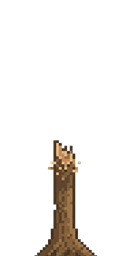
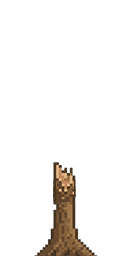
TEXTURAS

Changed region(s): [[0.375, 0.5312, 0.625, 0.8125]]

diff --git a/public/render.js b/public/render.js
@@ -146,109 +146,90 @@ window.draw = function() {
         window.ctx.globalAlpha = 1;
     }
 
+    // --- NUEVO SISTEMA DE SOL CON SPRITES ---
     if (hourFloat > 5 && hourFloat < 19) {
         let dayProgress = (hourFloat - 5) / 14;
         let sunX = W * dayProgress;
         let sunY = H * 0.8 - Math.sin(dayProgress * Math.PI) * (H * 0.7);
-        if (!window.game.isRaining) {
-            let haloGrad = window.ctx.createRadialGradient(sunX, sunY, 30, sunX, sunY, 120);
-            haloGrad.addColorStop(0, 'rgba(255,220,80,0.25)');
-            haloGrad.addColorStop(1, 'rgba(255,150,30,0)');
-            window.ctx.fillStyle = haloGrad;
-            window.ctx.beginPath(); window.ctx.arc(sunX, sunY, 120, 0, Math.PI*2); window.ctx.fill();
+        
+        let sunSize = 140; // Puedes ajustar el tamaño en píxeles
+        if (window.sprites.sprite_sun.complete && window.sprites.sprite_sun.naturalWidth > 0) {
+            window.ctx.drawImage(window.sprites.sprite_sun, sunX - sunSize/2, sunY - sunSize/2, sunSize, sunSize);
+        } else {
+            // Fallback por si la imagen tarda en cargar
+            window.ctx.fillStyle = '#FFE566';
+            window.ctx.beginPath(); window.ctx.arc(sunX, sunY, 42, 0, Math.PI*2); window.ctx.fill();
         }
-        window.ctx.fillStyle = '#FFE566';
-        window.ctx.shadowColor = '#FF9500'; window.ctx.shadowBlur = window.game.isRaining ? 8 : 45;
-        window.ctx.beginPath(); window.ctx.arc(sunX, sunY, 42, 0, Math.PI*2); window.ctx.fill();
-        window.ctx.fillStyle = '#FFF5A0';
-        window.ctx.shadowBlur = 0;
-        window.ctx.beginPath(); window.ctx.arc(sunX - 6, sunY - 8, 28, 0, Math.PI*2); window.ctx.fill();
-        window.ctx.shadowBlur = 0;
     }
 
+    // --- NUEVO SISTEMA DE LUNA CON SPRITES ---
     if (hourFloat >= 17 || hourFloat <= 7) {
         let nightProgress = hourFloat >= 17 ? (hourFloat - 17) / 14 : (hourFloat + 7) / 14;
         let moonX = W * nightProgress;
         let moonY = H * 0.8 - Math.sin(nightProgress * Math.PI) * (H * 0.7);
-        window.ctx.fillStyle = '#E8EEE0';
-        window.ctx.shadowColor = '#CCDDFF'; window.ctx.shadowBlur = window.game.isRaining ? 4 : 30;
-        window.ctx.beginPath(); window.ctx.arc(moonX, moonY, 32, 0, Math.PI*2); window.ctx.fill();
-        window.ctx.shadowBlur = 0;
-        window.ctx.fillStyle = 'rgba(0,0,0,0.08)';
-        [[- 8, 6, 7], [11, -7, 5], [2, 11, 5], [-4, -10, 4]].forEach(([ox, oy, or]) => {
-            window.ctx.beginPath(); window.ctx.arc(moonX + ox, moonY + oy, or, 0, Math.PI*2); window.ctx.fill();
-        });
-        window.ctx.shadowBlur = 0;
+        
+        let moonSize = 120; // Puedes ajustar el tamaño en píxeles
+        if (window.sprites.sprite_moon.complete && window.sprites.sprite_moon.naturalWidth > 0) {
+            window.ctx.drawImage(window.sprites.sprite_moon, moonX - moonSize/2, moonY - moonSize/2, moonSize, moonSize);
+        } else {
+            // Fallback por si la imagen tarda en cargar
+            window.ctx.fillStyle = '#E8EEE0';
+            window.ctx.beginPath(); window.ctx.arc(moonX, moonY, 32, 0, Math.PI*2); window.ctx.fill();
+        }
     }
 
+    // --- NUEVO SISTEMA DE NUBES CON SPRITES ---
     window.clouds.forEach(c => {
         c.x += c.v; if (c.x > W + 150) c.x = -150;
         let cloudAlpha = window.game.isRaining ? 0.75 : Math.max(0, 0.7 * (1 - darkness * 1.2));
         if (cloudAlpha <= 0) return;
+        
         window.ctx.save();
         window.ctx.globalAlpha = cloudAlpha;
-        window.ctx.fillStyle = window.game.isRaining ? 'rgba(70,80,100,0.6)' : 'rgba(200,215,240,0.4)';
-        window.ctx.beginPath();
-        window.ctx.arc(c.x + 2, c.y + 6, 28*c.s, 0, Math.PI*2);
-        window.ctx.arc(c.x + 27*c.s + 2, c.y - 13*c.s + 6, 33*c.s, 0, Math.PI*2);
-        window.ctx.arc(c.x + 52*c.s + 2, c.y + 6, 23*c.s, 0, Math.PI*2);
-        window.ctx.fill();
-        window.ctx.fillStyle = window.game.isRaining ? 'rgba(110,120,140,0.85)' : 'rgba(255,255,255,0.88)';
-        window.ctx.beginPath();
-        window.ctx.arc(c.x, c.y, 28*c.s, 0, Math.PI*2);
-        window.ctx.arc(c.x + 25*c.s, c.y - 14*c.s, 33*c.s, 0, Math.PI*2);
-        window.ctx.arc(c.x + 50*c.s, c.y, 23*c.s, 0, Math.PI*2);
-        window.ctx.fill();
-        if (!window.game.isRaining) {
-            window.ctx.fillStyle = 'rgba(255,255,255,0.5)';
-            window.ctx.beginPath();
-            window.ctx.arc(c.x + 22*c.s, c.y - 18*c.s, 18*c.s, 0, Math.PI*2);
-            window.ctx.fill();
+        
+        // Si llueve, oscurecemos la textura de la nube nativamente
+        if (window.game.isRaining) {
+            window.ctx.filter = 'brightness(45%)';
+        }
+
+        if (window.sprites.sprite_cloud.complete && window.sprites.sprite_cloud.naturalWidth > 0) {
+            // Escalamos la textura usando c.s (el factor de tamaño aleatorio que ya tenías)
+            let cW = 200 * c.s; 
+            let cH = 100 * c.s;
+            window.ctx.drawImage(window.sprites.sprite_cloud, c.x, c.y - cH/2, cW, cH);
+        } else {
+            // Fallback si no hay sprite
+            window.ctx.fillStyle = 'rgba(255,255,255,0.8)';
+            window.ctx.beginPath(); window.ctx.arc(c.x, c.y, 28*c.s, 0, Math.PI*2); window.ctx.fill();
         }
         window.ctx.restore();
     });
 
-    let mCol1 = `rgb(${Math.max(5,r-50)},${Math.max(5,g-50)},${Math.max(15,b-30)})`;
-    let mCol2 = `rgb(${Math.max(5,r-35)},${Math.max(5,g-35)},${Math.max(15,b-18)})`;
-    window.ctx.fillStyle = mCol1;
-    window.ctx.beginPath();
-    let mX = -(window.camera.x * 0.05) % 900;
-    for (let i = -1; i < 5; i++) {
-        let bx = mX + i * 900;
-        window.ctx.moveTo(bx, window.game.groundLevel);
-        window.ctx.lineTo(bx + 120, window.game.groundLevel - 260);
-        window.ctx.lineTo(bx + 280, window.game.groundLevel - 210);
-        window.ctx.lineTo(bx + 420, window.game.groundLevel - 320);
-        window.ctx.lineTo(bx + 600, window.game.groundLevel - 180);
-        window.ctx.lineTo(bx + 750, window.game.groundLevel - 240);
-        window.ctx.lineTo(bx + 900, window.game.groundLevel);
-    }
-    window.ctx.fill();
-    if (darkness < 0.7) {
-        window.ctx.fillStyle = `rgba(255,255,255,${0.25 * (1-darkness)})`;
-        window.ctx.beginPath();
-        for (let i = -1; i < 5; i++) {
-            let bx = mX + i * 900;
-            [[120,260,50],[420,320,60],[750,240,45]].forEach(([px, py, pw]) => {
-                window.ctx.moveTo(bx+px, window.game.groundLevel - py);
-                window.ctx.lineTo(bx+px-pw*0.5, window.game.groundLevel - py + pw*0.7);
-                window.ctx.lineTo(bx+px+pw*0.5, window.game.groundLevel - py + pw*0.7);
-            });
+    // --- FONDOS DE MONTAÑAS CON SPRITES (PARALLAX) ---
+    let bgW = 1280; 
+    let bgBackH = 500; // Alto visual de la capa más lejana
+    let bgMidH = 350;  // Alto visual de la capa intermedia
+
+    let backX = -(window.camera.x * 0.05) % bgW;
+    if (backX > 0) backX -= bgW;
+
+    let midX = -(window.camera.x * 0.15) % bgW;
+    if (midX > 0) midX -= bgW;
+
+    // Capa Lejana
+    if (window.sprites.bg_mountains_back.complete && window.sprites.bg_mountains_back.naturalWidth > 0) {
+        for (let i = -1; i <= Math.ceil(W / bgW) + 1; i++) {
+            window.ctx.drawImage(window.sprites.bg_mountains_back, backX + (i * bgW), window.game.groundLevel - bgBackH + 80, bgW, bgBackH);
         }
-        window.ctx.fill();
     }
 
-    window.ctx.fillStyle = mCol2;
-    window.ctx.beginPath();
-    let hX = -(window.camera.x * 0.2) % 1000;
-    for (let i = -1; i < 4; i++) {
-        let bx = hX + i * 1000;
-        window.ctx.moveTo(bx, window.game.groundLevel);
-        window.ctx.bezierCurveTo(bx + 100, window.game.groundLevel - 80, bx + 200, window.game.groundLevel - 130, bx + 350, window.game.groundLevel - 100);
-        window.ctx.bezierCurveTo(bx + 500, window.game.groundLevel - 70, bx + 650, window.game.groundLevel - 160, bx + 800, window.game.groundLevel - 90);
-        window.ctx.bezierCurveTo(bx + 900, window.game.groundLevel - 50, bx + 950, window.game.groundLevel - 30, bx + 1000, window.game.groundLevel);
+    // Capa Intermedia
+    if (window.sprites.bg_mountains_mid.complete && window.sprites.bg_mountains_mid.naturalWidth > 0) {
+        for (let i = -1; i <= Math.ceil(W / bgW) + 1; i++) {
+            window.ctx.drawImage(window.sprites.bg_mountains_mid, midX + (i * bgW), window.game.groundLevel - bgMidH + 30, bgW, bgMidH);
+        }
     }
-    window.ctx.fill();
+    // -------------------------------------------------
 
     window.ctx.translate(-window.camera.x, -window.camera.y);
 
@@ -256,41 +237,36 @@ window.draw = function() {
     const startX = Math.max(window.camera.x, window.game.shoreX);
     const endX = window.camera.x + W + 100;
 
-    // --- NUEVO SISTEMA DE TILING PARA BIOMAS ---
+    // --- SISTEMA DE TILING PARA BIOMAS ---
     const tileSize = 64;
     let startTileX = startX - (startX % tileSize);
     let startTileY = gL;
 
     for (let px = startTileX; px < endX; px += tileSize) {
-        // Cálculo de transparencia para la transición Bosque -> Desierto
         let desertAlpha = 0;
         if (px > 3400) desertAlpha = 1;
-        else if (px > 2600) desertAlpha = (px - 2600) / 800; // Transición de 800px
+        else if (px > 2600) desertAlpha = (px - 2600) / 800; 
 
         for (let py = startTileY; py < H; py += tileSize) {
             let isTop = (py === startTileY);
             
-            // Dibujar capa Bosque (Pasto/Tierra)
             if (desertAlpha < 1) {
                 window.ctx.globalAlpha = 1;
                 let fImg = isTop ? window.sprites.tile_grass_top : window.sprites.tile_dirt;
                 if (fImg && fImg.complete && fImg.naturalWidth > 0) {
                     window.ctx.drawImage(fImg, px, py, tileSize, tileSize);
                 } else {
-                    // Fallback visual si no hay PNG
                     window.ctx.fillStyle = isTop ? '#528c2a' : '#3d2412';
                     window.ctx.fillRect(px, py, tileSize, tileSize);
                 }
             }
 
-            // Dibujar capa Desierto (Arena) encima con opacidad variable
             if (desertAlpha > 0) {
                 window.ctx.globalAlpha = desertAlpha;
                 let dImg = isTop ? window.sprites.tile_sand_top : window.sprites.tile_sand_base;
                 if (dImg && dImg.complete && dImg.naturalWidth > 0) {
                     window.ctx.drawImage(dImg, px, py, tileSize, tileSize);
                 } else {
-                    // Fallback visual si no hay PNG
                     window.ctx.fillStyle = isTop ? '#e6c280' : '#d4a853';
                     window.ctx.fillRect(px, py, tileSize, tileSize);
                 }
@@ -298,7 +274,6 @@ window.draw = function() {
             window.ctx.globalAlpha = 1;
         }
 
-        // Detalles de pasto solo donde hay bosque
         if (desertAlpha < 1 && darkness < 0.8) {
             window.ctx.globalAlpha = 1 - desertAlpha;
             window.ctx.fillStyle = 'rgba(80,120,40,0.6)';
@@ -311,7 +286,6 @@ window.draw = function() {
     }
     // -------------------------------------------
 
-    // Agua
     if (window.camera.x < window.game.shoreX) {
         window.ctx.fillStyle = '#C8B878';
         window.ctx.fillRect(window.game.shoreX - 70, gL, 70, H - gL);
@@ -327,13 +301,11 @@ window.draw = function() {
         window.ctx.fillRect(window.game.shoreX - 70 - 5, gL + 8, 5, 8);
     }
 
-    // --- LIENZO OFF-SCREEN GLOBAL (PARA DAÑO) ---
     if (!window.hitCanvas) {
         window.hitCanvas = document.createElement('canvas');
         window.hitCtx = window.hitCanvas.getContext('2d', { willReadFrequently: true });
     }
 
-    // --- RENDERIZADO DE ÁRBOLES PRIMERO (Para quedar detrás de las rocas) ---
     window.trees.forEach(t => {
         if (t.x + t.width > window.camera.x && t.x < window.camera.x + window._canvasLogicW) {
             window.ctx.save();
@@ -351,7 +323,7 @@ window.draw = function() {
             let drawH = 256; 
             let drawW = 128;    
             let drawX = -drawW / 2;
-            let offsetVisualY = 0; // Eleva el árbol para que no parezca hundido
+            let offsetVisualY = 0; // Arreglado para que pise el pasto sin flotar
             let drawY = -drawH + offsetVisualY;
 
             if (img && img.complete && img.naturalWidth > 0) {
@@ -376,14 +348,12 @@ window.draw = function() {
         }
     });
 
-    // --- RENDERIZADO DE ROCAS SEGUNDO (Por delante de los árboles) ---
     window.rocks.forEach(r => {
         if (r.x + r.width > window.camera.x && r.x < window.camera.x + window._canvasLogicW) {
             window.ctx.save();
             window.ctx.translate(r.x + r.width/2, r.y + r.height);
             let hw = r.width / 2;
             
-            // Lógica de sprites para Roca Entera o Dañada (<= 50% HP)
             let img = (r.hp <= r.maxHp / 2) ? window.sprites.rock_damaged : window.sprites.rock_full;
             
             let drawW = 80; let drawH = 80; let drawX = -drawW / 2; let drawY = -drawH;
@@ -411,7 +381,6 @@ window.draw = function() {
         }
     });
 
-    // RENDERIZADO DE BLOQUES (Construcciones del jugador)
     window.blocks.forEach(b => {
         if (b.x + window.game.blockSize > window.camera.x && b.x < window.camera.x + window._canvasLogicW) {
             if (b.type === 'block') {

diff --git a/public/data.js b/public/data.js
@@ -16,7 +16,12 @@ window.sprites = {
     tile_grass_top: new Image(),
     tile_dirt: new Image(),
     tile_sand_top: new Image(),
-    tile_sand_base: new Image()
+    tile_sand_base: new Image(),
+    bg_mountains_back: new Image(), // <-- NUEVA
+    bg_mountains_mid: new Image(),  // <-- NUEVA
+    sprite_sun: new Image(),        // <-- NUEVA
+    sprite_moon: new Image(),       // <-- NUEVA
+    sprite_cloud: new Image()       // <-- NUEVA
 };
 window.sprites.tree_oak.src = 'assets/tree_oak.png';
 window.sprites.tree_pine.src = 'assets/tree_pine.png';
@@ -28,6 +33,11 @@ window.sprites.tile_grass_top.src = 'assets/tile_grass_top.png';
 window.sprites.tile_dirt.src = 'assets/tile_dirt.png';
 window.sprites.tile_sand_top.src = 'assets/tile_sand_top.png';
 window.sprites.tile_sand_base.src = 'assets/tile_sand_base.png';
+window.sprites.bg_mountains_back.src = 'assets/bg_mountains_back.png'; // <-- NUEVA
+window.sprites.bg_mountains_mid.src = 'assets/bg_mountains_mid.png';   // <-- NUEVA
+window.sprites.sprite_sun.src = 'assets/sprite_sun.png';               // <-- NUEVA
+window.sprites.sprite_moon.src = 'assets/sprite_moon.png';             // <-- NUEVA
+window.sprites.sprite_cloud.src = 'assets/sprite_cloud.png';           // <-- NUEVA
 // ------------------------
 
 // Alta resolución (2x) para canvas nítido
